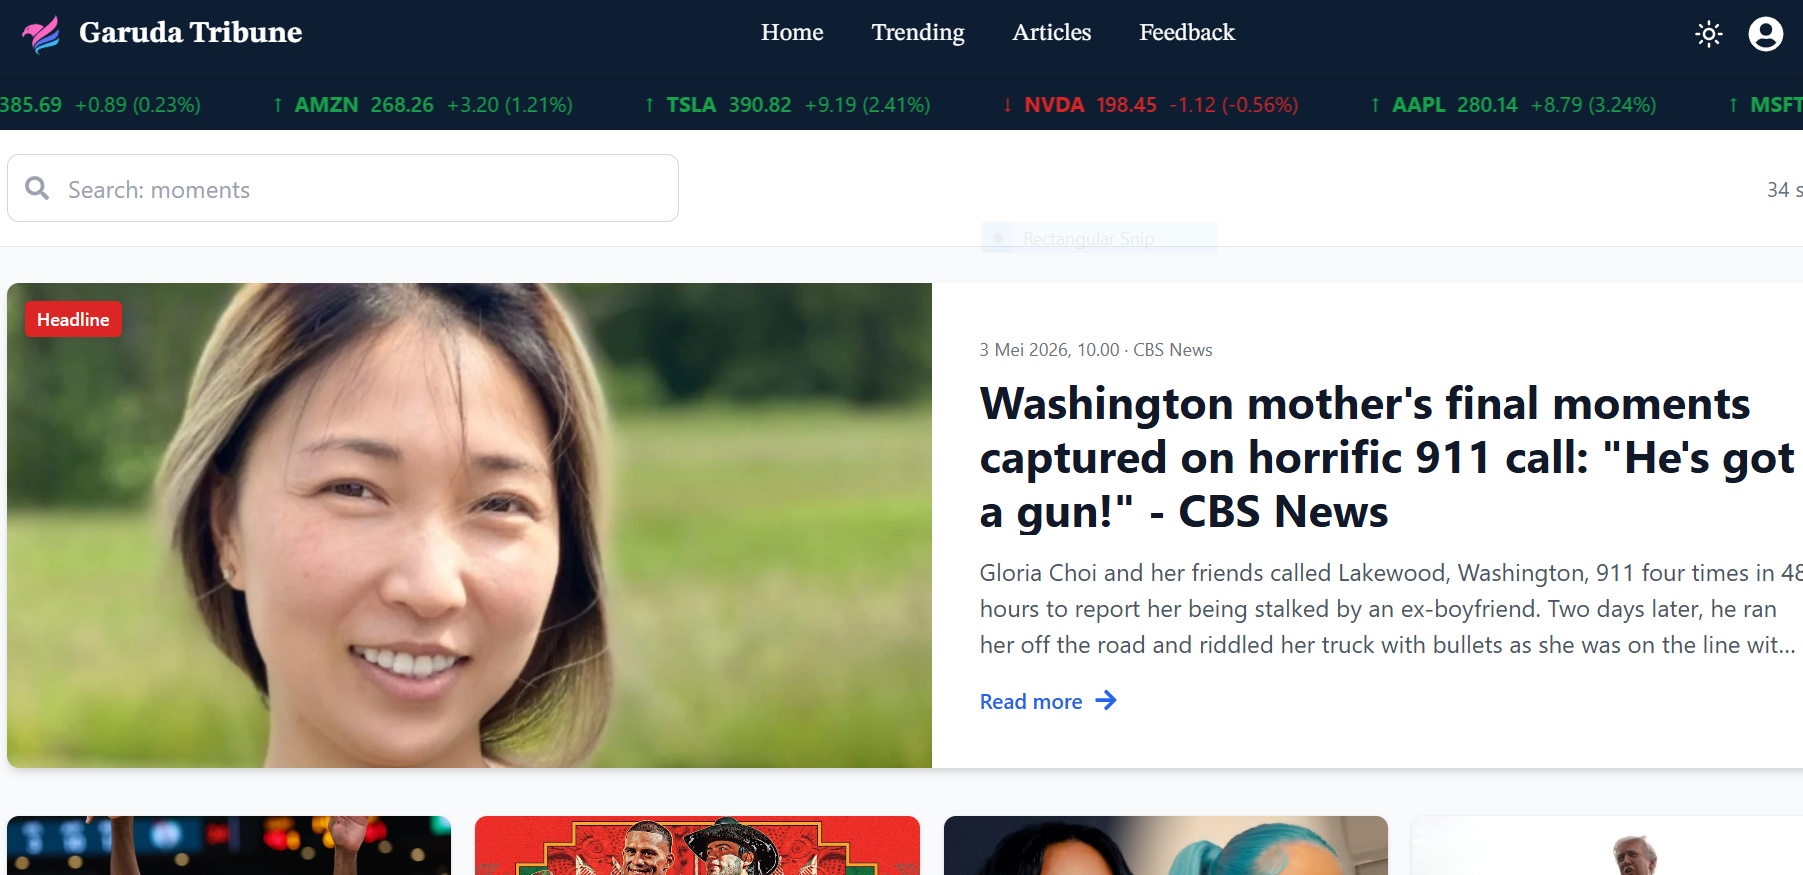
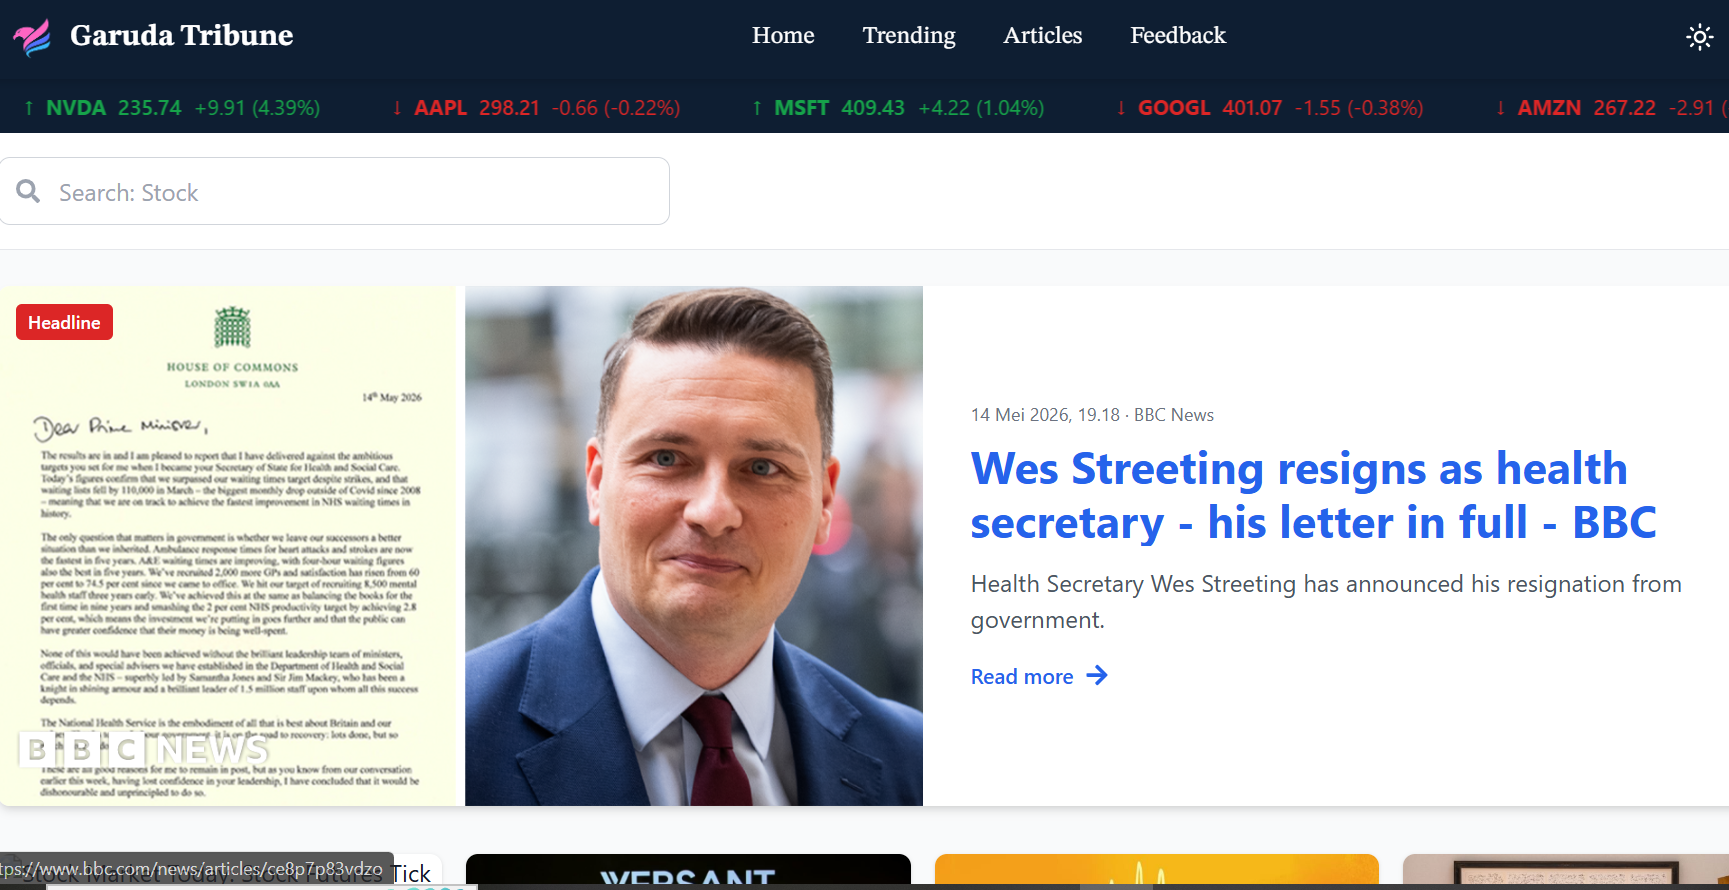
add docker

diff --git a/frontend/src/sections/AboutSection.tsx b/frontend/src/sections/AboutSection.tsx
@@ -8,6 +8,8 @@ import {
   SiJavascript, SiTypescript, SiNextdotjs,
 } from 'react-icons/si';
 
+import { motion } from 'framer-motion';
+
 type Tab = 'lang' | 'tools';
 
 interface SkillItem {
@@ -52,6 +54,7 @@ const toolsList: SkillItem[] = [
   { name: 'Git', icon: I('https://cdn.jsdelivr.net/gh/devicons/devicon/icons/git/git-original.svg', 'Git'), color: '#F05032' },
   { name: 'GitHub', icon: I('https://cdn.simpleicons.org/github/FFFFFF', 'GitHub'), color: '#FFFFFF' },
   { name: 'GitLab', icon: I('https://cdn.jsdelivr.net/gh/devicons/devicon/icons/gitlab/gitlab-original.svg', 'GitLab'), color: '#FC6D26' },
+  { name: 'Docker', icon: I('https://cdn.jsdelivr.net/gh/devicons/devicon/icons/docker/docker-original.svg', 'Docker'), color: '#2496ED' },
 ];
 
 export default function AboutSection() {
@@ -82,24 +85,38 @@ export default function AboutSection() {
               Capability
             </p>
 
-            <div className="flex sm:inline-flex rounded-full p-1 gap-1 bg-[var(--color-border)] w-full sm:w-auto">
+            <div className="relative flex sm:inline-flex rounded-full p-1.5 gap-1 bg-white/5 border border-white/10 w-full sm:w-auto overflow-hidden">
               <button
                 onClick={() => setActiveTab('lang')}
-                className={`flex-1 sm:flex-initial px-4 sm:px-5 py-2 rounded-full text-xs sm:text-sm font-medium transition-all duration-300 ${activeTab === 'lang'
-                  ? 'bg-[var(--color-surface)] text-[var(--color-text)] shadow'
-                  : 'text-[var(--color-text-muted)] hover:text-[var(--color-text)]'
+                className={`relative flex-1 sm:flex-initial px-6 py-2.5 rounded-full text-xs sm:text-sm font-medium transition-colors duration-300 z-10 ${activeTab === 'lang'
+                  ? 'text-white'
+                  : 'text-slate-400 hover:text-slate-200'
                   }`}
               >
-                Language &amp; Framework
+                {activeTab === 'lang' && (
+                  <motion.div
+                    layoutId="active-tab-glow"
+                    className="absolute inset-0 rounded-full bg-white/10 border border-white/20 shadow-[0_0_20px_rgba(255,255,255,0.25)]"
+                    transition={{ type: 'spring', bounce: 0.2, duration: 0.6 }}
+                  />
+                )}
+                <span className="relative z-20">Language &amp; Framework</span>
               </button>
               <button
                 onClick={() => setActiveTab('tools')}
-                className={`flex-1 sm:flex-initial px-4 sm:px-5 py-2 rounded-full text-xs sm:text-sm font-medium transition-all duration-300 ${activeTab === 'tools'
-                  ? 'bg-[var(--color-surface)] text-[var(--color-text)] shadow'
-                  : 'text-[var(--color-text-muted)] hover:text-[var(--color-text)]'
+                className={`relative flex-1 sm:flex-initial px-6 py-2.5 rounded-full text-xs sm:text-sm font-medium transition-colors duration-300 z-10 ${activeTab === 'tools'
+                  ? 'text-white'
+                  : 'text-slate-400 hover:text-slate-200'
                   }`}
               >
-                Tools
+                {activeTab === 'tools' && (
+                  <motion.div
+                    layoutId="active-tab-glow"
+                    className="absolute inset-0 rounded-full bg-white/10 border border-white/20 shadow-[0_0_20px_rgba(255,255,255,0.25)]"
+                    transition={{ type: 'spring', bounce: 0.2, duration: 0.6 }}
+                  />
+                )}
+                <span className="relative z-20">Tools</span>
               </button>
             </div>
 

diff --git a/frontend/src/sections/ProjectSection.tsx b/frontend/src/sections/ProjectSection.tsx
@@ -22,6 +22,7 @@ interface CompetencyItem {
   certificateImage?: string;
   certificateDescription?: string;
   category?: string;
+  hideVisitButton?: boolean;
 }
 
 const competencies: CompetencyItem[] = [
@@ -136,6 +137,7 @@ const competencies: CompetencyItem[] = [
     images: ["/workflow.png", "/defender.png", "/Collision.png"],
     link: "https://github.com/Lutfiandraa/CollisionWarning-YOLO",
     category: "computer-vision",
+    hideVisitButton: true,
   },
   {
     title: "Plotting Geothermal in Asia",
@@ -457,7 +459,7 @@ function Card({ comp, index, onOpenCertificate }: { comp: CompetencyItem; index:
               <FaGithub className="text-base" />
             </a>
           )}
-          {comp.link && comp.link !== "#" && (
+          {comp.link && comp.link !== "#" && !comp.hideVisitButton && (
             <a
               href={comp.link}
               target="_blank"
